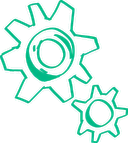
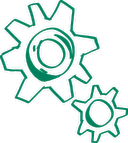
#69 Revise the brand green and flip its band to light type
Off-white on the brand green measured 2.51 at seven sites, four of them
normal text where the bar is 4.5. Brightening was not available: the tone
is already #fffbf3 and pure white reaches only 2.59 on the old green, so
both thresholds sat above the ceiling.

The green moves to #00805d, the old value at 70%, chosen for contrast
headroom the way accent-deep and orange-deep were. Off-white reaches 4.79
on it.

No darkening of this green carries both tones. Cream and ink never both
clear 4.5 and cross near 82% where neither does, the same crossover
question 15 records for the orange. So the band flipped: brand is now a
dark field with light type, as orange-deep already is, and ink is gone
from every brand surface.

The film comes down from 0.75 to 0.40. Soft-light at 0.45 lands the worst
glyph-sized area on exactly 4.50; 0.40 leaves 4.53. Overlay, which the
other dark bands take, fails at every opacity on a backdrop this dark.

The gate no longer waives this pairing. It is declared once per size it
is drawn at, which is the defect that let the small-text uses go
unmeasured.

Changed region(s): [[0.0, 0.0, 1.0, 1.0], [0.25, 0.2238, 0.3125, 0.2797]]

diff --git a/site/src/pages/brand-band-tones.test.jsx b/site/src/pages/brand-band-tones.test.jsx
@@ -1,0 +1,165 @@
+import { describe, it, expect } from 'vitest'
+import { readFileSync, readdirSync } from 'node:fs'
+import { join, dirname } from 'node:path'
+import { fileURLToPath } from 'node:url'
+import { BAND, BAND_GRAIN } from '../components/primitives.jsx'
+
+/**
+ * #69 — the brand green was revised and the band flipped from dark type on a
+ * light field to light type on a dark one, the way `orange-deep` already works.
+ *
+ * Source scans rather than rendered assertions, for the reason
+ * accent-contrast.test.jsx and band-colours.test.jsx both give: the suite omits
+ * the Tailwind plugin, so jsdom never resolves a utility to a colour and a
+ * contrast assertion here would measure nothing. The real ratios are asserted
+ * by design/tokens/verify/check.mjs, which compiles the theme.
+ *
+ * What this file catches is the other half, and it is the half that has bitten
+ * twice: #62 fixed a primitive and left eleven call sites behind, and #75 hit
+ * the same shape one band later. Flipping a band's type means every line on it
+ * moves, not just the heading.
+ */
+
+const SRC = join(dirname(fileURLToPath(import.meta.url)), '..')
+const ROOT = join(SRC, '..', '..')
+const source = (...parts) => readFileSync(join(SRC, ...parts), 'utf8')
+
+/** The text of every `<Section band="brand"...>` block on a page. */
+function brandBands(text) {
+  const blocks = []
+  const open = /<Section band="brand"[^>]*>/g
+  let m
+  while ((m = open.exec(text))) {
+    const end = text.indexOf('</Section>', m.index)
+    blocks.push(text.slice(m.index, end === -1 ? undefined : end))
+  }
+  return blocks
+}
+
+const PAGES_WITH_BRAND_BANDS = ['Contact', 'Insights', 'Privacy']
+
+describe('SCN-007 — every line on a brand band takes the light tone', () => {
+  it.each(PAGES_WITH_BRAND_BANDS)('gives every line on %s’s brand bands the hero tone', (page) => {
+    const bands = brandBands(source('pages', `${page}.jsx`))
+    expect(bands.length).toBeGreaterThan(0)
+
+    for (const band of bands) {
+      expect(band).not.toMatch(/tone="ink"/)
+      expect(band).not.toMatch(/text-ink\b/)
+    }
+  })
+
+  /* Through the prop, not around it. Hand-written colour utilities beside a
+     primitive are exactly what #62 left behind. */
+  it('reaches the tone through the prop rather than a hand-written utility', () => {
+    for (const page of PAGES_WITH_BRAND_BANDS) {
+      /* Not every brand band carries an eyebrow: the Insights closing band is a
+         heading, a lead and a button. Assert on the ones that do. */
+      for (const band of brandBands(source('pages', `${page}.jsx`))) {
+        for (const line of band.split('\n').filter((l) => l.includes('<Eyebrow'))) {
+          expect(line).toContain('tone="hero"')
+          expect(line).not.toMatch(/text-hero-heading/)
+        }
+      }
+    }
+  })
+
+  /* The components that draw their own brand fill rather than going through
+     `Section`. These are the ones a page-level scan cannot see. */
+  it('leaves no ink on a component that draws its own brand fill', () => {
+    const card = source('components', 'WhereAgentsWork.jsx')
+    const brandCard = card.slice(card.indexOf('bg-brand'))
+    expect(brandCard.slice(0, 400)).not.toMatch(/text-ink\b/)
+    expect(brandCard.slice(0, 400)).not.toMatch(/tone="ink"/)
+  })
+
+  it('gives both drill-down badge numerals the light tone', () => {
+    const badge = source('components', 'HardParts.jsx')
+    const block = badge.slice(badge.indexOf('function Badge'), badge.indexOf('function BlockLabel'))
+
+    expect(block).toContain('bg-brand')
+    /* The small badge was `text-white`, which is 2.59 on the old green and no
+       better than the off-white. Neither tone survives; both take the hero one. */
+    expect(block).not.toMatch(/text-white\b/)
+    expect(block.match(/text-hero-heading/g)).toHaveLength(2)
+  })
+
+  it('gives the brand node in the tone map the light mark', () => {
+    expect(source('components', 'HardParts.jsx'))
+      .toContain("{ fill: 'bg-brand', mark: 'text-hero-heading'")
+  })
+})
+
+describe('SCN-006 — the brand green moves once, everywhere', () => {
+  it('is declared in one place and carried by the token', () => {
+    const theme = readFileSync(join(ROOT, 'design', 'tokens', 'theme.css'), 'utf8')
+    expect(theme).toMatch(/--color-brand:\s*#00805d;/)
+  })
+
+  it('is pinned in the contract fixture so the revision cannot drift', () => {
+    const pinned = JSON.parse(
+      readFileSync(join(ROOT, 'design', 'tokens', 'verify', 'expected.json'), 'utf8'),
+    )
+    expect(pinned.colors['--color-brand']).toBe('#00805d')
+  })
+
+  it('leaves no hardcoded copy of the previous green in the shipped source', () => {
+    const files = (function walk(dir) {
+      return readdirSync(dir, { withFileTypes: true }).flatMap((e) => {
+        const path = join(dir, e.name)
+        if (e.isDirectory()) return e.name === 'assets' ? [] : walk(path)
+        /* Test files are excluded: this one names the old value in a comment,
+           and a scan that matched itself would never pass. */
+        return e.isFile() && /\.(jsx|css|mjs)$/.test(e.name) && !e.name.includes('.test.')
+          ? [path]
+          : []
+      })
+    })(SRC)
+
+    const offenders = files.filter((f) => /00b785/i.test(readFileSync(f, 'utf8')))
+    expect(offenders).toEqual([])
+  })
+})
+
+describe('SCN-008 — the grain film does not eat the margin', () => {
+  it('keeps a recipe for the brand band', () => {
+    expect(BAND.brand).toBe('bg-brand')
+    expect(BAND_GRAIN.brand.blend).toBe('soft-light')
+    expect(BAND_GRAIN.brand.opacity).toBeGreaterThan(0)
+  })
+
+  /* The film was tuned against a much lighter field. On the revised green the
+     off-white has 4.79 flat, and soft-light at 0.45 lands the worst
+     glyph-sized area on exactly 4.50. The recorded value has to leave margin. */
+  it('holds the film at the measured value rather than the one tuned for the old green', () => {
+    expect(BAND_GRAIN.brand.opacity).toBeLessThanOrEqual(0.4)
+  })
+})
+
+describe('SCN-004 — a pairing is checked at the size it is drawn at', () => {
+  const gate = () => readFileSync(join(ROOT, 'design', 'tokens', 'verify', 'check.mjs'), 'utf8')
+
+  it('declares the brand pairing once per size it is drawn at', () => {
+    const rows = gate()
+      .split('\n')
+      .filter((l) => l.includes("'var(--color-hero-heading)', 'var(--color-brand)'"))
+
+    expect(rows.length).toBeGreaterThanOrEqual(2)
+    expect(rows.some((r) => r.includes('AA_LARGE'))).toBe(true)
+    expect(rows.some((r) => r.includes('AA_NORMAL'))).toBe(true)
+  })
+
+  /* The waiver is what hid this. A fifth element on a PAIRS row marks it as
+     reported-not-enforced, and the brand rows must no longer carry one. */
+  it('no longer waives the brand pairing as known debt', () => {
+    const rows = gate()
+      .split('\n')
+      .filter((l) => l.includes("'var(--color-hero-heading)', 'var(--color-brand)'"))
+
+    for (const row of rows) expect(row).not.toMatch(/,\s*'question \d+'\s*\]/)
+  })
+
+  it('no longer declares ink on the brand band, which the flip removed', () => {
+    expect(gate()).not.toMatch(/'var\(--color-ink\)',\s*'var\(--color-brand\)'/)
+  })
+})

diff --git a/site/src/components/LibrarianFlow.jsx b/site/src/components/LibrarianFlow.jsx
@@ -31,11 +31,11 @@ const LABEL =
 
 const COLUMN = 'rounded-card border border-ink px-[22px] py-5'
 
-function Column({ eyebrow, items, className }) {
+function Column({ eyebrow, items, tone = 'ink', className }) {
   return (
     <div className={`${COLUMN} ${className}`}>
-      <Eyebrow tone="ink" className="mb-2 block">{eyebrow}</Eyebrow>
-      <PlainList items={items} variant="ruled" />
+      <Eyebrow tone={tone} className="mb-2 block">{eyebrow}</Eyebrow>
+      <PlainList items={items} variant="ruled" tone={tone} />
     </div>
   )
 }
@@ -70,9 +70,14 @@ export default function LibrarianFlow({ sources, dewey, agents }) {
     >
       <Column eyebrow="Systems of record" items={sources} className="bg-surface" />
       <Link label="Inbound connectors" />
-      {/* Ink on the green rather than the off-white hero tone, the same rule the
-          rest of the site follows on `brand`: cream-50 measures 2.51:1 here. */}
-      <Column eyebrow="Dewey™ · The librarian" items={dewey} className="bg-brand shadow-hard" />
+      {/* The off-white hero tone rather than ink, the same rule the rest of the
+          site follows on `brand` since #69: ink measures 3.22:1 here now. */}
+      <Column
+        eyebrow="Dewey™ · The librarian"
+        items={dewey}
+        tone="hero"
+        className="bg-brand shadow-hard"
+      />
       <Link label="Scoped retrieval" />
       <Column eyebrow="Agents" items={agents} className="bg-ice" />
     </div>

diff --git a/site/src/components/Lists.jsx b/site/src/components/Lists.jsx
@@ -98,12 +98,25 @@ export function TermList({ items, variant = 'stacked', columns = 1, className = 
  * librarian diagram, which is why it is a variant here rather than markup
  * written twice.
  */
-export function PlainList({ items, variant = 'body', className = '' }) {
+export function PlainList({ items, variant = 'body', tone = 'ink', className = '' }) {
+  /* `hero` is for a list drawn on a dark fill. The rule between items takes the
+     same tone as the text, so it does not stay ink on a band the type has left. */
+  const onDark = tone === 'hero'
+
   if (variant === 'ruled') {
     return (
-      <ul className={`${REVEAL_GROUP.relay} text-[15px] leading-6 text-ink ${className}`}>
+      <ul
+        className={`${REVEAL_GROUP.relay} text-[15px] leading-6 ${
+          onDark ? 'text-hero-heading' : 'text-ink'
+        } ${className}`}
+      >
         {items.map((text) => (
-          <li key={text} className="border-t border-ink/25 py-1.5 first:border-t-0 first:pt-0">
+          <li
+            key={text}
+            className={`border-t py-1.5 first:border-t-0 first:pt-0 ${
+              onDark ? 'border-hero-heading/25' : 'border-ink/25'
+            }`}
+          >
             {text}
           </li>
         ))}

diff --git a/site/src/pages/Insights.jsx b/site/src/pages/Insights.jsx
@@ -13,9 +13,9 @@ export default function Insights() {
     <>
       <Section band="brand" grain>
         <Wrap>
-          <Eyebrow tone="ink" className="mb-4">Insights</Eyebrow>
+          <Eyebrow tone="hero" className="mb-4">Insights</Eyebrow>
           <H1 tone="hero" className="mb-6">Arguments, not explainers.</H1>
-          <Lead>We write when we have something specific to say, which is not often.</Lead>
+          <Lead tone="hero">We write when we have something specific to say, which is not often.</Lead>
         </Wrap>
       </Section>
 
@@ -49,8 +49,8 @@ export default function Insights() {
 
       <Section band="brand">
         <Wrap className="text-center">
-          <H2 className="mb-4">Would rather talk than read?</H2>
-          <Lead className="mx-auto mb-8">Most of what we know does not make it onto a page. Ask us directly.</Lead>
+          <H2 tone="hero" className="mb-4">Would rather talk than read?</H2>
+          <Lead tone="hero" className="mx-auto mb-8">Most of what we know does not make it onto a page. Ask us directly.</Lead>
           <Button to="/contact">Start a conversation</Button>
         </Wrap>
       </Section>

diff --git a/site/src/components/primitives.jsx b/site/src/components/primitives.jsx
@@ -129,7 +129,16 @@ export const BAND_GRAIN = {
      0.35 leaves 4.55, which is the margin a threshold this close should have.
      The band's film is fainter than its neighbours as a result. */
   blue: { opacity: 0.35, blend: 'overlay' },
-  brand: { opacity: 0.75, blend: 'soft-light' },
+  /* 0.40, held down by contrast, exactly as `blue` and `orange-deep` are. #69
+     revised the green and the band flipped to light type, so off-white on it is
+     4.79:1 against a 4.5 floor and the film eats into that: soft-light at 0.45
+     lands the worst glyph-sized area on 4.50 and 0.40 leaves 4.53, which is the
+     margin a threshold this close should have.
+
+     Soft-light, not the overlay the other two dark bands take. Overlay on a
+     backdrop this dark multiplies, roughly doubling the spread, and fails at
+     every opacity down to 0.30: the best it reaches is 4.34. */
+  brand: { opacity: 0.4, blend: 'soft-light' },
   gold: { opacity: 0.95, blend: 'overlay' },
   /* 0.40, held down by contrast rather than by the spread target, exactly as
      `blue` is. Off-white on this band is 4.85:1 against a 4.5 floor, and the

diff --git a/site/src/components/WhereAgentsWork.jsx b/site/src/components/WhereAgentsWork.jsx
@@ -41,11 +41,12 @@ export default function WhereAgentsWork({ roles }) {
 
           <PaneHandoff label="Goes to the accountable person" />
 
-          {/* Ink on the green, not the off-white hero tone: cream-50 on this fill
-              is 2.51:1, ink is 6.16:1. Same rule the page follows on `brand`. */}
+          {/* The off-white hero tone, not ink. #69 revised the green and the
+              band flipped to light type: ink is 3.22:1 on this fill now and the
+              off-white 4.79. Same rule the page follows on `brand`. */}
           <div className="rounded-card border border-ink bg-brand px-6 py-[22px] shadow-hard">
-            <Eyebrow tone="ink" className="mb-2">Human decision</Eyebrow>
-            <p className="font-heading text-[22px] font-bold leading-8 text-ink text-pretty">
+            <Eyebrow tone="hero" className="mb-2">Human decision</Eyebrow>
+            <p className="font-heading text-[22px] font-bold leading-8 text-hero-heading text-pretty">
               {role.human}
             </p>
           </div>

diff --git a/site/src/components/HardParts.jsx b/site/src/components/HardParts.jsx
@@ -34,7 +34,7 @@ const ROW_PANEL = 'hard-parts-region'
    is what keeps a 19px glyph legible on white — at full strength the gold
    checkmark measures 1.79:1 and effectively disappears. */
 const NODE_TONE = [
-  { fill: 'bg-brand', mark: 'text-ink', rest: 'text-brand-deep' },
+  { fill: 'bg-brand', mark: 'text-hero-heading', rest: 'text-brand-deep' },
   { fill: 'bg-gold', mark: 'text-ink', rest: 'text-gold-deep' },
   { fill: 'bg-orange', mark: 'text-hero-heading', rest: 'text-orange-deep' },
   { fill: 'bg-navy', mark: 'text-hero-heading', rest: 'text-navy' },
@@ -50,7 +50,7 @@ function Badge({ n, size }) {
     <span
       aria-hidden="true"
       className={`mt-0.5 grid flex-none place-items-center rounded-pill border border-ink bg-brand font-bold shadow-[0_2px_0_var(--color-ink)] ${
-        big ? 'h-6 w-6 text-[12px] text-hero-heading' : 'h-[22px] w-[22px] text-[11px] text-white'
+        big ? 'h-6 w-6 text-[12px] text-hero-heading' : 'h-[22px] w-[22px] text-[11px] text-hero-heading'
       }`}
     >
       {n}

diff --git a/site/src/pages/Contact.jsx b/site/src/pages/Contact.jsx
@@ -91,9 +91,9 @@ export default function Contact() {
     <>
       <Section band="brand" grain>
         <Wrap>
-          <Eyebrow tone="ink" className="mb-4">Contact</Eyebrow>
+          <Eyebrow tone="hero" className="mb-4">Contact</Eyebrow>
           <H1 tone="hero" className="mb-6">Tell us what needs to work.</H1>
-          <Lead>Describe the situation in your own words. You do not need a scope, a budget, or a defined project. If we are not the right firm for it, we will tell you that.</Lead>
+          <Lead tone="hero">Describe the situation in your own words. You do not need a scope, a budget, or a defined project. If we are not the right firm for it, we will tell you that.</Lead>
         </Wrap>
       </Section>
 

diff --git a/site/src/pages/Privacy.jsx b/site/src/pages/Privacy.jsx
@@ -21,7 +21,7 @@ export default function Privacy() {
     <>
       <Section band="brand" grain>
         <Wrap>
-          <Eyebrow tone="ink" className="mb-4">Legal</Eyebrow>
+          <Eyebrow tone="hero" className="mb-4">Legal</Eyebrow>
           <H1 tone="hero" className="mb-6">Privacy policy.</H1>
           <Placeholder tag="Placeholder · not legal copy" className="max-w-2xl">
             This page is a stub so the footer link resolves in the prototype. No privacy policy has been written. Counsel must draft it, and nothing here has been reviewed by a lawyer.

diff --git a/design/tokens/theme.css b/design/tokens/theme.css
@@ -23,7 +23,7 @@
    */
 
   /* Primary */
-  --color-brand: #00b785; /* measured; name INFERRED — full-bleed hero band */
+  --color-brand: #00805d; /* revised by #69; was #00b785, see OPEN-QUESTIONS q1 */
   --color-accent: #0073f4; /* measured; name INFERRED — section eyebrows */
   --color-cta: #ffdf65; /* measured; name INFERRED — primary button fill */
   --color-ink: #2f1e14; /* measured; name INFERRED — text, borders, shadow */

diff --git a/design/tokens/OPEN-QUESTIONS.md b/design/tokens/OPEN-QUESTIONS.md
@@ -8,16 +8,53 @@ Ordered by how much rework a late answer causes.
 
 ---
 
-## 1. The hero H1 fails contrast — 2.51
+## 1. The hero H1 fails contrast — 2.51 (answered)
 
-`--color-hero-heading` `#fffbf3` on `--color-brand` `#00b785` measures **2.51**.
+`--color-hero-heading` `#fffbf3` on `--color-brand` `#00b785` measured **2.51**.
 WCAG AA needs 4.5 for normal text and 3.0 for large. At 57px it counts as large,
-and it still fails.
-
-This is the most prominent element on the site.
+and it still failed.
 
 **Question:** darken the green, darken the heading, or accept the ratio as a
-deliberate brand decision? We have not changed either value.
+deliberate brand decision?
+
+**Answered by #69: darken the green, to `#00805d`.**
+
+The question as written understated the problem. The same pair was drawn at
+seven sites, not one, and four of them are normal text where the bar is 4.5
+rather than 3.0: the `Coming Soon` line at 18px on the public splash, both
+drill-down badge numerals at 12px and 11px, and the eyebrow on three page
+heroes. Only the headings ever sat at the 3.0 bar.
+
+Two of the three proposed answers were not available:
+
+- **Darkening the heading** is impossible. The tone is already `#fffbf3`, and
+  pure white, the brightest colour there is, reaches only **2.59** on the old
+  green. Both thresholds sit above that ceiling, so no lighter tone resolves any
+  of the seven sites.
+- **Accepting it** would have left the only page the public can reach failing at
+  2.51 against a 4.5 bar.
+
+So the green moved. `#00805d` is the old value at 70%, chosen for contrast
+headroom rather than to match a handoff tone, the same way `--color-accent-deep`
+and `--color-orange-deep` were: the off-white reaches **4.79** on it, which is
+the margin `orange-deep` (4.85) and the blue band (4.92) were given so their
+grain films could be tuned without dropping under AA. `#008460` is the least
+darkening that clears 4.5 at all, at 4.57, and was rejected as too tight to film.
+
+**The band flipped with it.** No darkening of this green carries both tones:
+checked at every step from 100% to 20%, cream and ink never both clear 4.5, and
+they cross near 82% where neither passes. This is the same crossover question 15
+records for the orange. So `brand` stopped being a light field with dark type and
+became a dark field with light type, the way `orange-deep` already is. Every
+line on a brand surface now takes the off-white; ink measures 3.22 there.
+
+**Sizes affected and where it was applied:** the splash heading and its 18px
+line, the `h1` on Contact, Insights and Privacy plus their eyebrows and leads,
+the Insights closing band, the WhereAgentsWork decision card, the LibrarianFlow
+Dewey column, and both HardParts badge numerals.
+
+The gate no longer waives this pairing. It is declared once per size it is drawn
+at, which is the defect that let the small-text uses go unmeasured for so long.
 
 ## 2. The blue eyebrow fails contrast — 4.41 (answered)
 
